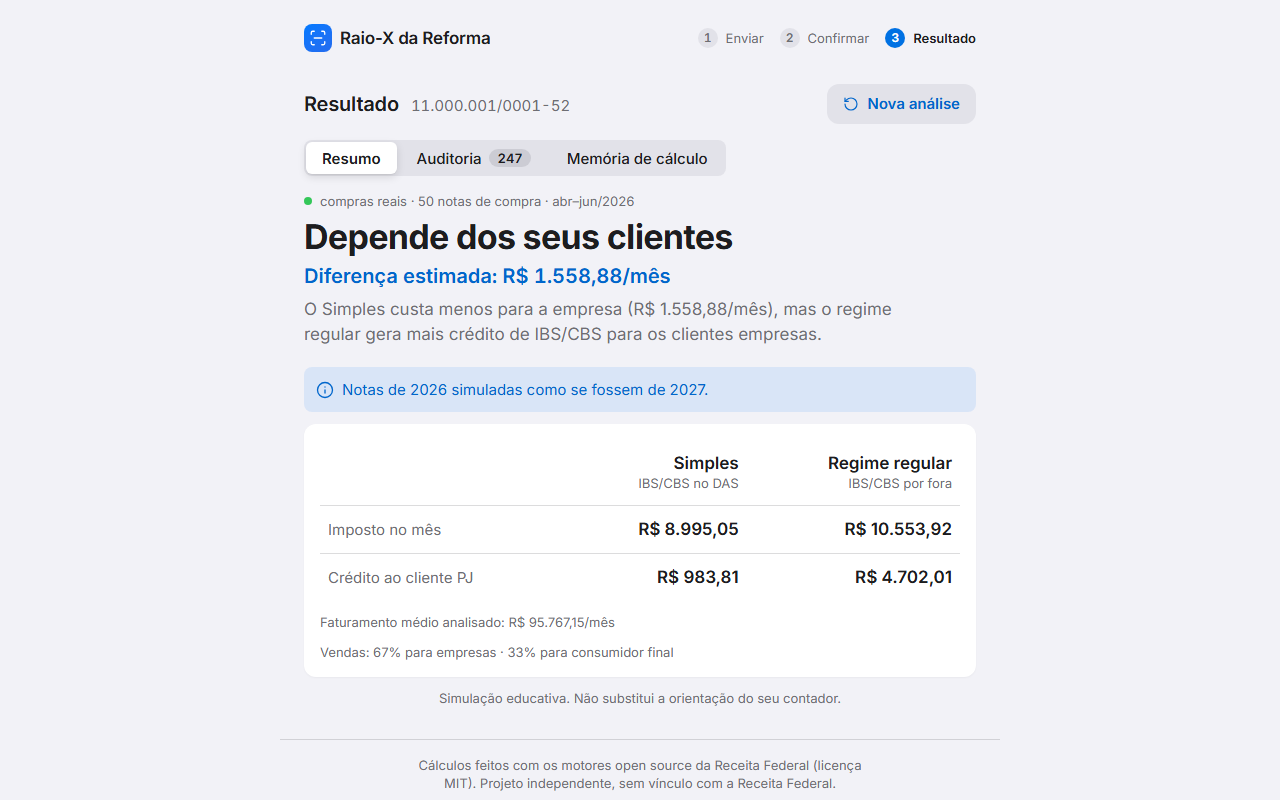
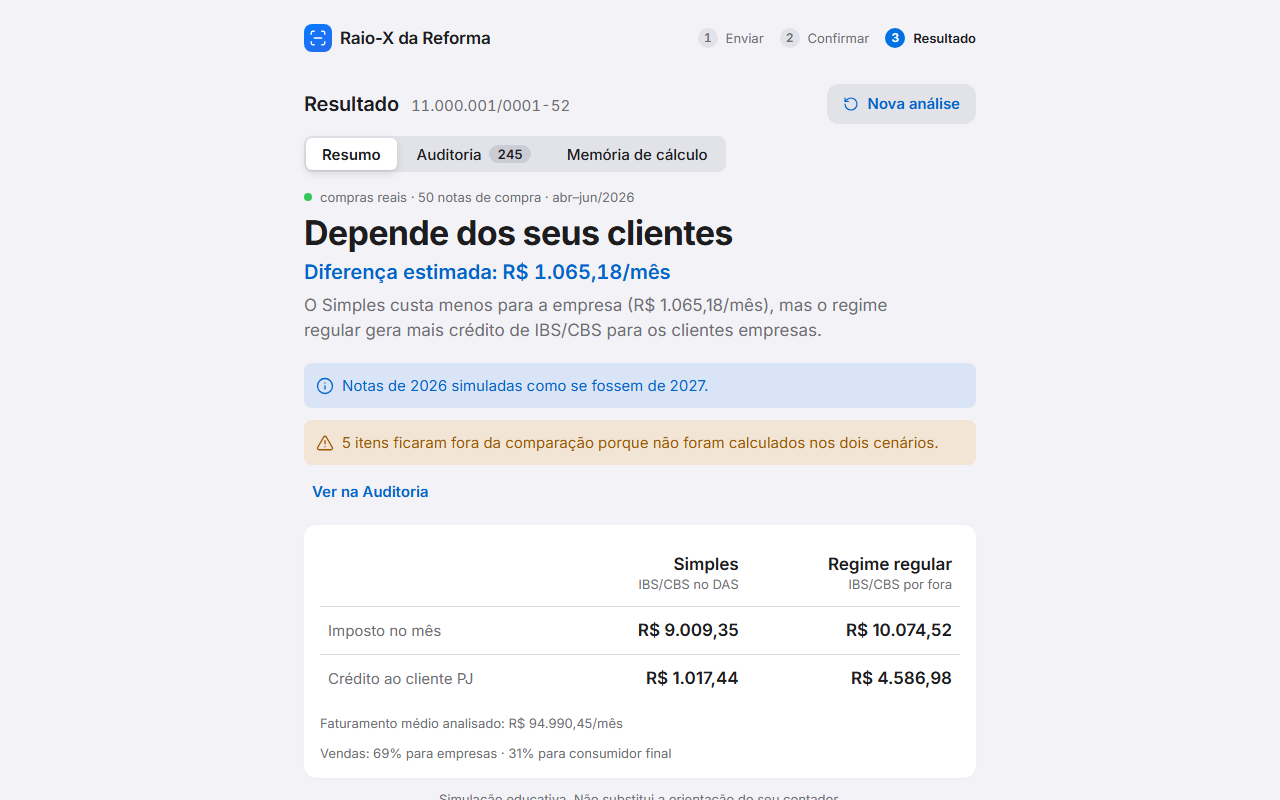
fix: auditoria das vendas valida NCM × cClassTrib no regime regular; barra compacta nas listas; e2e com REG-011 em venda

Changed region(s): [[0.2188, 0.1875, 0.7812, 0.75], [0.25, 0.7188, 0.75, 1.0], [0.25, 0.6562, 0.3438, 0.6875]]

diff --git a/web/e2e/gerarNotas.ts b/web/e2e/gerarNotas.ts
@@ -188,20 +188,16 @@ export function xmlNFe(d: DadosNFe): { chave: string; xml: string } {
   return { chave, xml };
 }
 
+/** NFS-e nacional de 2026: sem o grupo IBSCBS (como as reais). */
 function xmlNFSe(p: { cnpj: string; nome: string; toma: string; nomeToma: string; numero: number; emissao: string; valor: number; servico: (typeof SERVICOS)[number]; municipio: (typeof MUNICIPIOS)[number] }): { chave: string; xml: string } {
   const idBase = `${p.municipio.cMun}2${p.cnpj}${String(p.numero).padStart(13, '0')}2605`;
   const chave = (idBase + String(p.numero * 104729).padStart(50 - idBase.length, '0')).slice(0, 50);
-  const g = { cst: '000', cClassTrib: '000001' };
-  const vCBS = arredondar((p.valor * ALIQ.cbs) / 100);
-  const vUF = arredondar((p.valor * ALIQ.ibsUF) / 100);
-  const vMun = arredondar((p.valor * ALIQ.ibsMun) / 100);
   const xml = `<?xml version="1.0" encoding="UTF-8"?>
 <NFSe versao="1.01" xmlns="http://www.sped.fazenda.gov.br/nfse">
   <infNFSe Id="NFS${chave}">
     <nNFSe>${p.numero}</nNFSe>
     <emit><CNPJ>${p.cnpj}</CNPJ><xNome>${p.nome}</xNome><enderNac><cMun>${p.municipio.cMun}</cMun><UF>${p.municipio.uf}</UF></enderNac></emit>
     <valores><vBC>${dinheiro(p.valor)}</vBC><vISSQN>${dinheiro(p.valor * 0.05)}</vISSQN><vLiq>${dinheiro(p.valor)}</vLiq></valores>
-    <IBSCBS><valores><vBC>${dinheiro(p.valor)}</vBC></valores><totCIBS><gIBS><vIBSTot>${dinheiro(vUF + vMun)}</vIBSTot><gIBSUFTot><vIBSUF>${dinheiro(vUF)}</vIBSUF></gIBSUFTot><gIBSMunTot><vIBSMun>${dinheiro(vMun)}</vIBSMun></gIBSMunTot></gIBS><gCBS><vCBS>${dinheiro(vCBS)}</vCBS></gCBS></totCIBS></IBSCBS>
     <DPS versao="1.01"><infDPS Id="DPS${p.numero}">
       <dhEmi>${p.emissao}</dhEmi>
       <prest><CNPJ>${p.cnpj}</CNPJ><regTrib><opSimpNac>1</opSimpNac></regTrib></prest>
@@ -209,7 +205,6 @@ function xmlNFSe(p: { cnpj: string; nome: string; toma: string; nomeToma: string
       <serv><cServ><cTribNac>${p.servico.trib}</cTribNac><xDescServ>${p.servico.nome}</xDescServ><cNBS>${p.servico.nbs}</cNBS></cServ></serv>
       <valores><vServPrest><vServ>${dinheiro(p.valor)}</vServ></vServPrest>
         <trib><tribMun><tribISSQN>1</tribISSQN></tribMun></trib></valores>
-      <IBSCBS><valores><trib><gIBSCBS><CST>${g.cst}</CST><cClassTrib>${g.cClassTrib}</cClassTrib></gIBSCBS></trib></valores></IBSCBS>
     </infDPS></DPS>
   </infNFSe>
 </NFSe>
@@ -246,15 +241,16 @@ export function gerarNotas(pasta: string = PASTA_NOTAS): NotasGeradas {
   const chaves: string[] = [];
   let sequencial = 1;
 
-  // Itens de venda: 1-3 por nota; ~1/3 com grupo IBSCBS (alíquota cheia ou reduzida), o resto sem grupo na nota.
+  // Itens de venda: notas de 2026 de empresa do Simples não trazem o grupo IBSCBS (como as reais); a classificação
+  // sai da tabela oficial na tela Confirmar. Exceção: a nota com o NCM incompatível, que traz o cClassTrib errado.
   const itemVenda = (): ItemGerado => {
     const sorteio = alea();
     if (sorteio < 0.12) {
       const r = escolher(NCMS_REDUZIDOS);
-      return { ncm: r.ncm, nome: r.nome, valor: valor(), grupo: { cst: r.cst, cClassTrib: r.cClassTrib, reducao: r.reducao } };
+      return { ncm: r.ncm, nome: r.nome, valor: valor() };
     }
     const n = escolher(NCMS_NORMAIS);
-    return { ncm: n.ncm, nome: n.nome, valor: valor(), grupo: sorteio < 0.45 ? { cst: '000', cClassTrib: '000001', reducao: 0 } : undefined };
+    return { ncm: n.ncm, nome: n.nome, valor: valor() };
   };
   const itensVenda = () => Array.from({ length: 1 + Math.floor(alea() * 3) }, itemVenda);
 
@@ -266,7 +262,7 @@ export function gerarNotas(pasta: string = PASTA_NOTAS): NotasGeradas {
   };
 
   // 150 vendas
-  for (let i = 0; i < 67; i++) adicionarNFe('vendas/nfe', { mod: '55', emitente: empresa, destinatario: escolher(clientesPJ), municipio: escolher(MUNICIPIOS), itens: itensVenda() });
+  for (let i = 0; i < 66; i++) adicionarNFe('vendas/nfe', { mod: '55', emitente: empresa, destinatario: escolher(clientesPJ), municipio: escolher(MUNICIPIOS), itens: itensVenda() });
   for (let i = 0; i < 30; i++) adicionarNFe('vendas/nfe', { mod: '55', emitente: empresa, destinatario: escolher(clientesPF), municipio: escolher(MUNICIPIOS), itens: itensVenda() });
   for (let i = 0; i < 30; i++) adicionarNFe('vendas/nfce', { mod: '65', emitente: empresa, municipio: MUNICIPIOS[0], itens: [itemVenda()] });
   for (let i = 0; i < 20; i++) {
@@ -278,15 +274,19 @@ export function gerarNotas(pasta: string = PASTA_NOTAS): NotasGeradas {
     arquivos.set(`vendas/nfse/${chave}.xml`, xml);
   }
 
-  // 3 NCMs com redução garantidos (completam as 70 NF-e PJ).
+  // 3 NCMs com redução garantidos e o NCM incompatível (completam as 70 NF-e PJ).
   for (const r of NCMS_REDUZIDOS) {
     adicionarNFe('vendas/nfe', {
       mod: '55', emitente: empresa, destinatario: clientesPJ[0], municipio: MUNICIPIOS[0],
-      itens: [{ ncm: r.ncm, nome: r.nome, valor: 1500, grupo: { cst: r.cst, cClassTrib: r.cClassTrib, reducao: r.reducao } }],
+      itens: [{ ncm: r.ncm, nome: r.nome, valor: 1500 }],
     });
   }
-  // 50 compras (3 fornecedores) com IBSCBS. A última traz o NCM incompatível com o cClassTrib: o motor regular
-  // (que calcula as compras) responde REG-011. Nas vendas a auditoria usa o motor do Simples, que não valida NCM × cClassTrib.
+  adicionarNFe('vendas/nfe', {
+    mod: '55', emitente: empresa, destinatario: clientesPJ[1], municipio: MUNICIPIOS[0],
+    itens: [{ ncm: INCOMPATIVEL.ncm, nome: INCOMPATIVEL.nome, valor: 800, grupo: { cst: INCOMPATIVEL.cst, cClassTrib: INCOMPATIVEL.cClassTrib, reducao: 60 } }],
+  });
+
+  // 50 compras (3 fornecedores) com IBSCBS (o fornecedor já emite o grupo). A primeira repete o NCM incompatível.
   adicionarNFe('compras', {
     mod: '55', emitente: fornecedores[0], destinatario: { doc: empresa.cnpj, tipo: 'PJ', nome: empresa.nome },
     municipio: MUNICIPIOS[0],

diff --git a/web/src/auditoria/auditar.ts b/web/src/auditoria/auditar.ts
@@ -29,7 +29,18 @@ export interface LinhaAuditoria {
 
 export const TOLERANCIA = Big('0.01'); // por tributo, em R$
 
-function linhasDe(docs: Documento[], papel: 'VENDA' | 'COMPRA', porItem: Map<string, ItemCalculado>, classificacoes: Classificacoes): LinhaAuditoria[] {
+/**
+ * `validacao` (só nas vendas): o resultado do regime regular para o mesmo item. Os valores da linha seguem vindo de
+ * `porItem` (Simples), mas o motor regular é quem valida CST × cClassTrib × NCM/NBS: se ele recusou o item, o erro entra
+ * na linha e o achado vira ERRO_MOTOR; se não o calculou e sem erro, o achado vira NAO_CALCULADO.
+ */
+function linhasDe(
+  docs: Documento[],
+  papel: 'VENDA' | 'COMPRA',
+  porItem: Map<string, ItemCalculado>,
+  classificacoes: Classificacoes,
+  validacao?: Map<string, ItemCalculado>,
+): LinhaAuditoria[] {
   const linhas: LinhaAuditoria[] = [];
   for (const d of docs) {
     for (const it of d.itens) {
@@ -40,7 +51,12 @@ function linhasDe(docs: Documento[], papel: 'VENDA' | 'COMPRA', porItem: Map<str
       const vNota = g ? g.vCBS.plus(g.vIBSUF).plus(g.vIBSMun) : undefined;
       let achado: Achado;
       let diferenca: Big | undefined;
-      if (!c) achado = 'NAO_CALCULADO';
+      const v = validacao?.get(chaveItem(d.chave, it.numero));
+      const errosValidacao = validacao && c?.estado === 'CALCULO_SIMULADO' ? (v?.erros ?? []) : [];
+      const validacaoSemCalculo = validacao !== undefined && c?.estado === 'CALCULO_SIMULADO' && v?.estado !== 'CALCULO_SIMULADO';
+      if (errosValidacao.length > 0) achado = 'ERRO_MOTOR';
+      else if (validacaoSemCalculo) achado = 'NAO_CALCULADO';
+      else if (!c) achado = 'NAO_CALCULADO';
       else if (c.estado !== 'CALCULO_SIMULADO') achado = c.erros.length > 0 ? 'ERRO_MOTOR' : 'NAO_CALCULADO';
       else if (!g) achado = 'SEM_GRUPO_NA_NOTA';
       else {
@@ -63,7 +79,7 @@ function linhasDe(docs: Documento[], papel: 'VENDA' | 'COMPRA', porItem: Map<str
         cClassTrib: confirmada?.cClassTrib ?? g?.cClassTrib ?? '',
         estado: c?.estado ?? 'NAO_CALCULADO',
         achado,
-        erros: c?.erros ?? [],
+        erros: [...(c?.erros ?? []), ...errosValidacao],
         vNota,
         vMotor,
         diferenca,
@@ -80,7 +96,10 @@ export function auditar(
   compras: Documento[],
   calculados: ItemCalculado[],
   classificacoes: Classificacoes = {},
+  /** Resultado do regime regular para as vendas (porFora): valida NCM × cClassTrib, que o motor do Simples não valida. */
+  validacaoVendas?: ItemCalculado[],
 ): LinhaAuditoria[] {
   const porItem = new Map(calculados.map((c) => [chaveItem(c.chave, c.numero), c]));
-  return [...linhasDe(vendas, 'VENDA', porItem, classificacoes), ...linhasDe(compras, 'COMPRA', porItem, classificacoes)];
+  const validacao = validacaoVendas && new Map(validacaoVendas.map((c) => [chaveItem(c.chave, c.numero), c]));
+  return [...linhasDe(vendas, 'VENDA', porItem, classificacoes, validacao), ...linhasDe(compras, 'COMPRA', porItem, classificacoes)];
 }

diff --git a/web/src/telas/Resultado.tsx b/web/src/telas/Resultado.tsx
@@ -40,7 +40,7 @@ export default function Resultado({ cnpjEmpresa, simulacao, auditoria, sextaFaix
   function verAuditoria(alvo: FocoAuditoria) {
     setEstadoAuditoria({
       ...ESTADO_AUDITORIA_INICIAL,
-      filtros: { ...SEM_FILTROS, achado: ACHADOS_SEM_CALCULO, papel: alvo === 'COMPRAS_SEM_CREDITO' ? ['COMPRA'] : [] },
+      filtros: { ...SEM_FILTROS, achado: ACHADOS_SEM_CALCULO, papel: [alvo === 'COMPRAS_SEM_CREDITO' ? 'COMPRA' : 'VENDA'] },
     });
     setAba('AUDITORIA');
   }
@@ -52,31 +52,33 @@ export default function Resultado({ cnpjEmpresa, simulacao, auditoria, sextaFaix
 
   return (
     <div className={aba === 'RESUMO' ? 'resultado' : 'resultado resultado--lista'}>
-      <header className="resultado__cabecalho">
+      {/* Nas telas de lista a barra é uma linha só (empresa · abas · Nova análise): sobra altura para as linhas da tabela. */}
+      <header className={aba === 'RESUMO' ? 'resultado__cabecalho' : 'resultado__cabecalho resultado__cabecalho--compacto'}>
         <div className="resultado__titulos">
           <h1 className="resultado__titulo">Resultado</h1>
           {cnpjEmpresa && <p className="resultado__empresa">{formatarCnpj(cnpjEmpresa)}</p>}
         </div>
-        <Botao variante="secundario" icone={RotateCcw} onClick={aoNovaAnalise}>
+        <div className="resultado__abas">
+          <Segmentado
+            modo="abas"
+            idBase={idBase}
+            rotulo="Seções do resultado"
+            valor={aba}
+            aoMudar={(a) => {
+              setAba(a);
+              setFoco(null);
+            }}
+            opcoes={[
+              { valor: 'RESUMO', rotulo: 'Resumo' },
+              { valor: 'AUDITORIA', rotulo: 'Auditoria', contador: comAchado.length },
+              { valor: 'MEMORIA', rotulo: 'Memória de cálculo' },
+            ]}
+          />
+        </div>
+        <Botao variante="secundario" icone={RotateCcw} onClick={aoNovaAnalise} className="resultado__nova">
           Nova análise
         </Botao>
       </header>
-
-      <Segmentado
-        modo="abas"
-        idBase={idBase}
-        rotulo="Seções do resultado"
-        valor={aba}
-        aoMudar={(a) => {
-          setAba(a);
-          setFoco(null);
-        }}
-        opcoes={[
-          { valor: 'RESUMO', rotulo: 'Resumo' },
-          { valor: 'AUDITORIA', rotulo: 'Auditoria', contador: comAchado.length },
-          { valor: 'MEMORIA', rotulo: 'Memória de cálculo' },
-        ]}
-      />
 
       <div role="tabpanel" id={idPainel(idBase, aba)} aria-labelledby={idAba(idBase, aba)} className="resultado__painel">
         {aba === 'RESUMO' && (

diff --git a/web/src/simulacao/analisar.test.ts b/web/src/simulacao/analisar.test.ts
@@ -3,6 +3,7 @@ import { describe, expect, it, vi } from 'vitest';
 import type { Documento, ItemDocumento, TipoDocumento } from '../leitura/tipos';
 import type { Cenario, EstadoItem, ItemCalculado, ParametrosCalculo } from '../motor/tipos';
 import type { AliquotasSimples } from '../regras/simples/aliquotaEfetiva';
+import { ACHADOS_SEM_CALCULO, SEM_FILTROS, filtrar } from '../auditoria/tabela';
 import { analisar, FalhaDoMotor, usaSextaFaixa } from './analisar';
 import type { OrigemCompras } from './simular';
 
@@ -123,5 +124,26 @@ describe('analisar', () => {
     expect(real.comprasSemCredito).toBe(1);
     const estimada = await analisar({ vendas: [doc('v1', 'PJ')], compras: [], parametros: PARAMETROS, origemCompras: ESTIMADA }, undefined, parcial);
     expect(estimada.comprasSemCredito).toBe(0);
+  });
+
+  it('o atalho "Ver na Auditoria" dos itens excluídos mostra exatamente itensExcluidos linhas de venda', async () => {
+    const recusadoNoRegular = { code: 'REG-011', title: 'NCM não vinculada', detail: 'd' };
+    const vendas = [doc('v1', 'PJ', [item(1), item(2), item(3)]), doc('v2', 'PF')];
+    const compras = [doc('c1', 'PJ', [item(1)])];
+    const calcular = vi.fn(async (docs: Documento[], cenario: Cenario) =>
+      docs.flatMap((d) =>
+        calculados(d, ['10', '1', '0'], 'CALCULO_SIMULADO').map((c): ItemCalculado => {
+          if (cenario === 'SIMPLES_POR_FORA' && d.chave === 'v1' && c.numero === 2) return { ...c, estado: 'INCONSISTENCIA_ENTRADA', erros: [recusadoNoRegular] };
+          if (cenario === 'SIMPLES_POR_FORA' && d.chave === 'v1' && c.numero === 3) return { ...c, estado: 'FALHA_TECNICA' };
+          if (cenario === 'REGULAR_AUDITORIA') return { ...c, estado: 'INCONSISTENCIA_ENTRADA', erros: [recusadoNoRegular] }; // compra com erro: fora do atalho
+          return c;
+        }),
+      ),
+    );
+    const r = await analisar({ vendas, compras, parametros: PARAMETROS, origemCompras: REAL }, undefined, calcular);
+    expect(r.simulacao.itensExcluidos).toBe(2);
+    const atalho = filtrar(r.auditoria, '', { ...SEM_FILTROS, achado: ACHADOS_SEM_CALCULO, papel: ['VENDA'] });
+    expect(atalho).toHaveLength(r.simulacao.itensExcluidos);
+    expect(atalho.map((l) => l.item).sort()).toEqual([2, 3]);
   });
 });

diff --git a/web/src/auditoria/auditar.test.ts b/web/src/auditoria/auditar.test.ts
@@ -96,4 +96,31 @@ describe('auditar', () => {
     const [b] = auditar([comGrupo], [], [calc(1, ['0.9', '0.1', '0'])], { [chave2]: op });
     expect([b.cst, b.cClassTrib]).toEqual(['200', '200003']);
   });
+
+  describe('validação do regime regular nas vendas (porFora)', () => {
+    const erros = [{ code: 'REG-011', title: 'NCM não vinculada', detail: 'd' }];
+    const recusado = (extra: Partial<ItemCalculado> = {}) =>
+      calc(1, ['0', '0', '0'], { estado: 'INCONSISTENCIA_ENTRADA', erros, ...extra });
+
+    it('venda com REG-011 só no porFora vira ERRO_MOTOR, com o código e o valor do Simples', () => {
+      const [l] = auditar([doc([item(1, ['0.9', '0.1', '0'])])], [], [calc(1, ['0.9', '0.1', '0'], { origemMemoria: 'COMPOSTA' })], {}, [recusado()]);
+      expect(l.achado).toBe('ERRO_MOTOR');
+      expect(l.erros.map((e) => e.code)).toEqual(['REG-011']);
+      expect(l.estado).toBe('CALCULO_SIMULADO');
+      expect(l.vMotor.toString()).toBe('1');
+      expect(l.origemMemoria).toBe('COMPOSTA');
+    });
+    it('venda que o regular não calculou e sem erro vira NAO_CALCULADO', () => {
+      const [l] = auditar([doc([item(1)])], [], [calc(1, ['0.9', '0.1', '0'])], {}, [calc(1, ['0', '0', '0'], { estado: 'FALHA_TECNICA' })]);
+      expect(l.achado).toBe('NAO_CALCULADO');
+    });
+    it('venda validada nos dois motores segue pela comparação de valores', () => {
+      const [l] = auditar([doc([item(1, ['0.9', '0.1', '0'])])], [], [calc(1, ['0.9', '0.1', '0'])], {}, [calc(1, ['9', '1', '0'])]);
+      expect(l.achado).toBe('OK');
+    });
+    it('compras não mudam: a validação só vale para vendas', () => {
+      const [l] = auditar([], [doc([item(1, ['0.9', '0.1', '0'])])], [calc(1, ['0.9', '0.1', '0'])], {}, [recusado()]);
+      expect(l.achado).toBe('OK');
+    });
+  });
 });

diff --git a/web/e2e/fluxo.spec.ts b/web/e2e/fluxo.spec.ts
@@ -37,7 +37,9 @@ test('fluxo completo: enviar, confirmar, calcular nos motores reais e auditar', 
   // 4. Auditoria: REG-011 e CSV
   await page.getByRole('tab', { name: /^Auditoria/ }).click();
   await page.getByLabel('Buscar por nota, descrição, NCM/NBS ou cClassTrib').fill('CARNE BOVINA');
-  await expect(page.getByText('REG-011').first()).toBeVisible();
+  // a venda com NCM incompatível é recusada pelo motor regular (validação), mesmo com o valor vindo do Simples
+  await expect(page.getByRole('row').filter({ hasText: 'Venda' }).filter({ hasText: 'REG-011' })).toHaveCount(1);
+  await expect(page.getByRole('row').filter({ hasText: 'Compra' }).filter({ hasText: 'REG-011' })).toHaveCount(1);
   await page.getByLabel('Buscar por nota, descrição, NCM/NBS ou cClassTrib').fill('');
   const [download] = await Promise.all([page.waitForEvent('download'), page.getByRole('button', { name: 'Exportar CSV' }).click()]);
   expect(download.suggestedFilename()).toBe('raio-x-auditoria.csv');
@@ -45,7 +47,7 @@ test('fluxo completo: enviar, confirmar, calcular nos motores reais e auditar', 
   expect([...csv.subarray(0, 3)]).toEqual([0xef, 0xbb, 0xbf]);
   const linhas = csv.toString('utf8').replace(/^\uFEFF/, '').split('\r\n');
   expect(linhas[0]).toContain('Descrição');
-  expect(linhas.some((l) => l.includes('REG-011'))).toBe(true);
+  expect(linhas.some((l) => l.includes('Venda') && l.includes('REG-011'))).toBe(true);
 
   // 5. Memória de cálculo: as duas origens aparecem (vendas: composta pelo app; compras: texto do motor regular)
   await page.getByRole('tab', { name: 'Memória de cálculo' }).click();

diff --git a/web/src/auditoria/tabela.ts b/web/src/auditoria/tabela.ts
@@ -39,7 +39,8 @@ export const ESTADO_AUDITORIA_INICIAL: EstadoAuditoria = {
 /** Achados de itens que o motor não calculou (valor do motor não é um valor calculado). */
 export const ACHADOS_SEM_CALCULO: LinhaAuditoria['achado'][] = ['NAO_CALCULADO', 'ERRO_MOTOR'];
 
-export const semCalculo = (l: LinhaAuditoria) => ACHADOS_SEM_CALCULO.includes(l.achado);
+/** Venda que o Simples calculou mas o regime regular recusou (ERRO_MOTOR com estado simulado) mantém o valor do Simples. */
+export const semCalculo = (l: LinhaAuditoria) => ACHADOS_SEM_CALCULO.includes(l.achado) && l.estado !== 'CALCULO_SIMULADO';
 
 /** Minúsculas e sem acento, para busca tolerante. */
 export const normalizar = (s: string) => s.normalize('NFD').replace(/\p{M}/gu, '').toLowerCase();

diff --git a/web/e2e/medirLayout.spec.ts b/web/e2e/medirLayout.spec.ts
@@ -45,7 +45,7 @@ test('layout das telas nos 7 tamanhos', async ({ page }) => {
     await medir(page, tamanho, 'Resultado · Resumo', medicoes);
 
     await page.getByRole('tab', { name: /^Auditoria/ }).click();
-    await expect(page.getByRole('heading', { name: 'Auditoria', level: 2 })).toBeVisible();
+    await expect(page.getByRole('heading', { name: 'Auditoria', level: 2 })).toBeAttached();
     await medir(page, tamanho, 'Resultado · Auditoria', medicoes);
 
     await page.getByRole('tab', { name: 'Memória de cálculo' }).click();

diff --git a/web/src/telas/Auditoria.css b/web/src/telas/Auditoria.css
@@ -74,3 +74,16 @@
   color: var(--cor-texto-2);
   overflow-wrap: anywhere;
 }
+
+/* Tela baixa (notebook com a barra do navegador): o título e a contagem saem da vista (continuam para leitor de tela;
+   a contagem também está no selo da aba e no rodapé da tabela) e a tabela ganha uma linha a mais. */
+@media (max-height: 700px) and (min-width: 768px) {
+  .auditoria__cabecalho {
+    position: absolute;
+    width: 1px;
+    height: 1px;
+    overflow: hidden;
+    clip-path: inset(50%);
+    white-space: nowrap;
+  }
+}

diff --git a/web/src/telas/Resultado.css b/web/src/telas/Resultado.css
@@ -57,3 +57,26 @@
   flex: 1 1 auto;
   min-height: 0;
 }
+
+/* Abas dentro do cabeçalho: embaixo da linha do título no Resumo; na mesma linha nas telas de lista. */
+.resultado__abas {
+  order: 3;
+  flex: 1 1 100%;
+  min-width: 0;
+}
+
+.resultado__nova {
+  order: 2;
+}
+
+.resultado__cabecalho--compacto .resultado__abas {
+  order: 1;
+  flex: 1 1 auto;
+}
+
+@media (max-width: 767px) {
+  .resultado__cabecalho--compacto .resultado__abas {
+    order: 3;
+    flex: 1 1 100%;
+  }
+}

diff --git a/web/src/simulacao/analisar.ts b/web/src/simulacao/analisar.ts
@@ -75,6 +75,6 @@ export async function analisar(
     aliquotasPorAtividade: parametros.aliquotasSimples,
     origemCompras: origem,
   });
-  const auditoria = auditar(vendas, compras, [...porDentro, ...comprasCalculadas], parametros.classificacoes);
+  const auditoria = auditar(vendas, compras, [...porDentro, ...comprasCalculadas], parametros.classificacoes, porFora);
   return { auditoria, simulacao, comprasSemCredito: somados?.itensSemCredito ?? 0 };
 }

diff --git a/web/src/App.css b/web/src/App.css
@@ -143,3 +143,15 @@
     padding-bottom: var(--esp-3);
   }
 }
+
+/* Notebook com a barra do navegador (altura ≤ 700 px): margens menores nas telas de lista para caber mais linhas. */
+@media (min-width: 1024px) and (max-height: 700px) {
+  .app:has(.resultado--lista) .app__conteudo {
+    padding-top: var(--esp-2);
+    padding-bottom: var(--esp-2);
+  }
+
+  .resultado--lista {
+    gap: var(--esp-3);
+  }
+}
